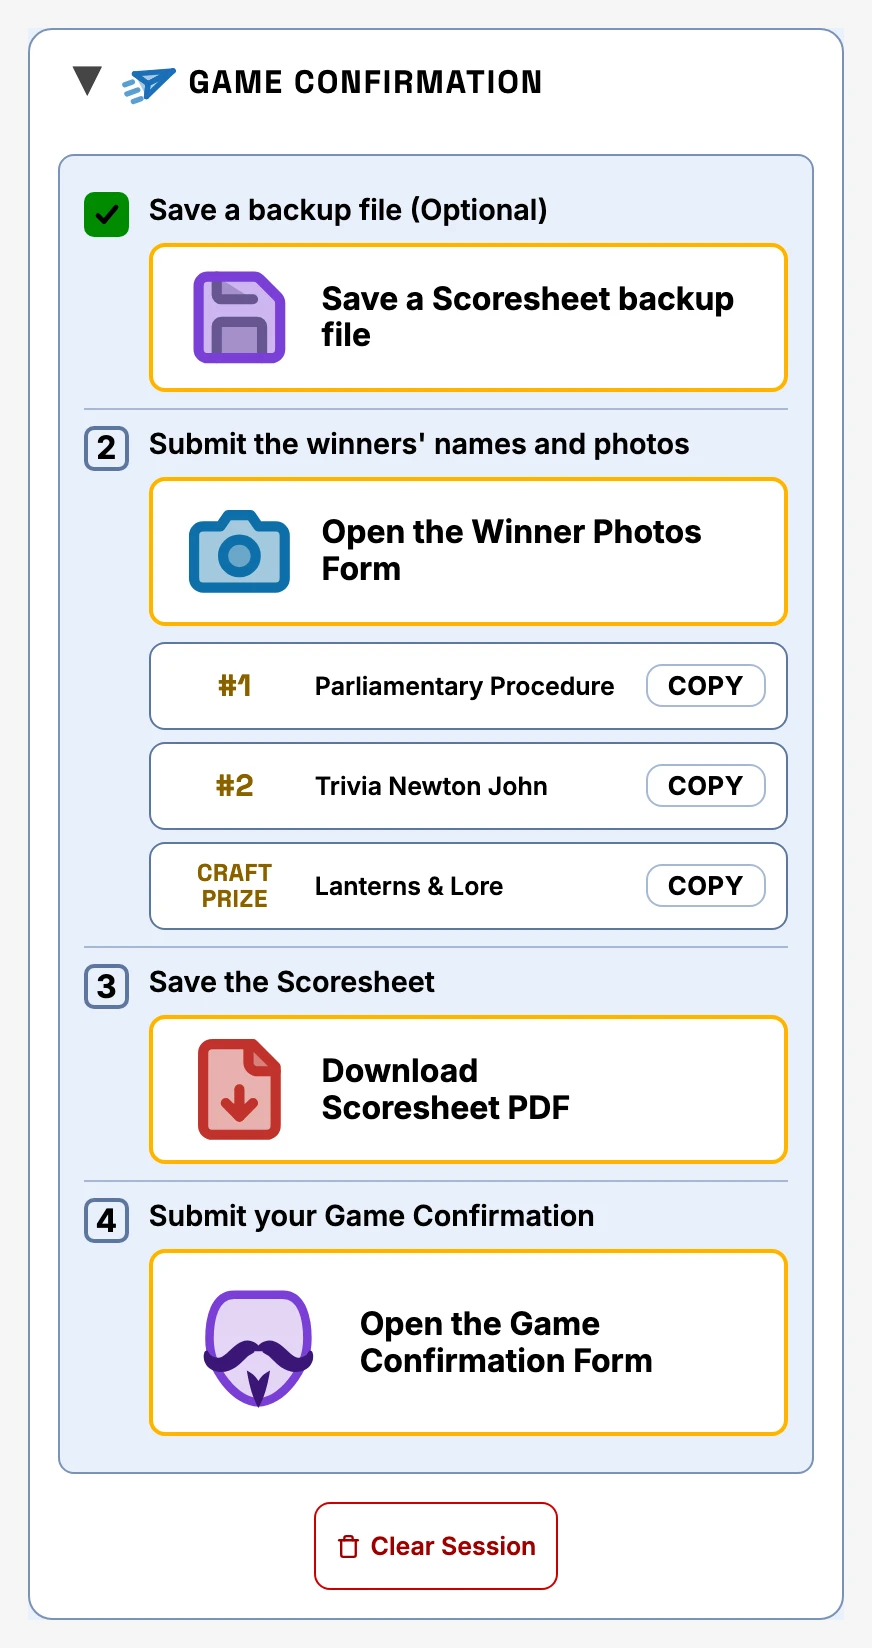
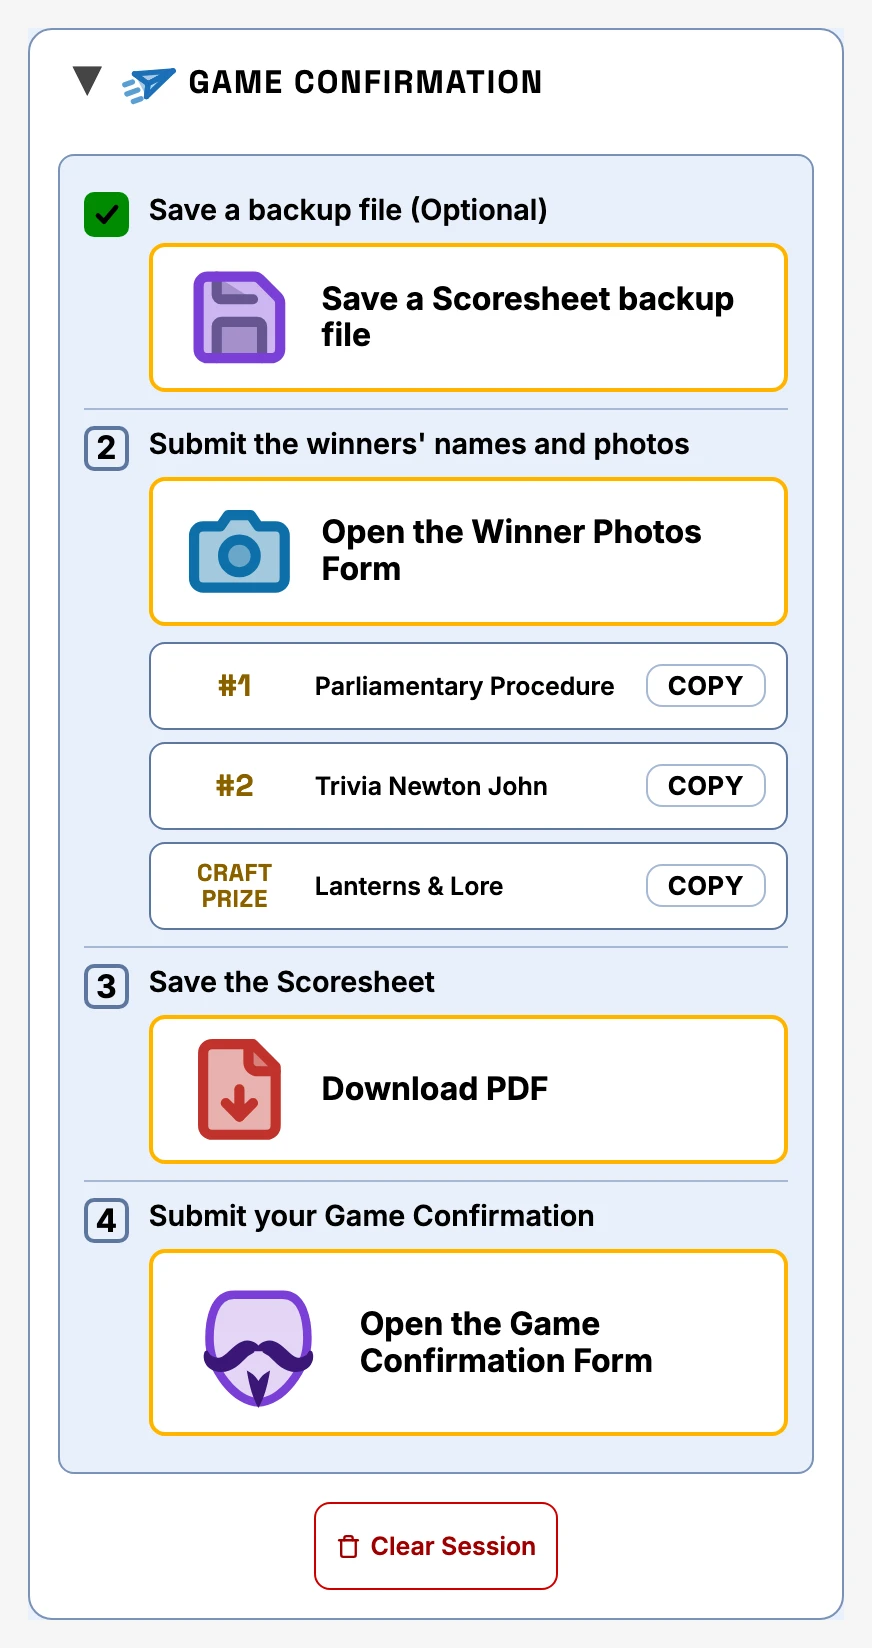
v22.73 Step 3 button renamed Download PDF, FAQ v1.74 screenshots

Changed region(s): [[0.3716, 0.6189, 0.6502, 0.6808]]

diff --git a/index.html b/index.html
@@ -109,7 +109,7 @@
     </div>
     </div>
     <div class="settings-panel-foot">
-    <div class="settings-meta"><span class="settings-version" id="versionLabel"></span><details class="settings-about"><summary>What's new</summary><div class="about-ver"><b>v22.72</b><ul><li>Game Confirmation: the #1/#2/Craft Prize labels moved slightly left, and the backup floppy shows its silver strokes under the purple outline.</li></ul></div><div class="about-ver"><b>v22.71</b><ul><li>Game Confirmation: the subtitle under each step is gone, so the list is shorter.</li></ul></div><div class="about-ver"><b>v22.70</b><ul><li>The "Copied" confirmation now fades back to the normal label smoothly instead of flashing, and step 4 says "Attach the PDF you just saved".</li></ul></div></details><span class="settings-disclaimer"><svg class="icon-ui" viewBox="0 0 24 24" aria-hidden="true" focusable="false"><path d="m21.73 18-8-14a2 2 0 0 0-3.48 0l-8 14A2 2 0 0 0 4 21h16a2 2 0 0 0 1.73-3"/><path d="M12 9v4"/><path d="M12 17h.01"/></svg> Built with Anthropic's Claude AI — double-check scores &amp; banter yourself.</span></div>
+    <div class="settings-meta"><span class="settings-version" id="versionLabel"></span><details class="settings-about"><summary>What's new</summary><div class="about-ver"><b>v22.73</b><ul><li>Game Confirmation: the step 3 button is now simply "Download PDF".</li></ul></div><div class="about-ver"><b>v22.72</b><ul><li>Game Confirmation: the #1/#2/Craft Prize labels moved slightly left, and the backup floppy shows its silver strokes under the purple outline.</li></ul></div><div class="about-ver"><b>v22.71</b><ul><li>Game Confirmation: the subtitle under each step is gone, so the list is shorter.</li></ul></div></details><span class="settings-disclaimer"><svg class="icon-ui" viewBox="0 0 24 24" aria-hidden="true" focusable="false"><path d="m21.73 18-8-14a2 2 0 0 0-3.48 0l-8 14A2 2 0 0 0 4 21h16a2 2 0 0 0 1.73-3"/><path d="M12 9v4"/><path d="M12 17h.01"/></svg> Built with Anthropic's Claude AI — double-check scores &amp; banter yourself.</span></div>
     </div>
   </div>
 </div>

diff --git a/js/app.js b/js/app.js
@@ -69,8 +69,8 @@ const FIELD_MAX = {
   timezone: 64,
   locale: 35,
 };
-const APP_VERSION = "v22.72"; // #Version Number — bump this manually when you release a new build
-const APP_VERSION_DATE = "Nov 22, 2026 4:43 AM"; // #Version Date — bump alongside APP_VERSION so folks can spot a stale build
+const APP_VERSION = "v22.73"; // #Version Number — bump this manually when you release a new build
+const APP_VERSION_DATE = "Nov 22, 2026 4:48 AM"; // #Version Date — bump alongside APP_VERSION so folks can spot a stale build
 // version.json (repo root) mirrors these two — see checkForUpdate() below for why, and bump it
 // in the same commit as these two or the update-available check starts lying: it'd either miss
 // a real new release (version.json still saying the old version) or nag a host running the
@@ -2790,7 +2790,7 @@ function finishActionHtml(k) {
   const rect = (icon, label, sub) =>
     `${icon}<span class="finish-rect-text"><span class="finish-rect-label">${label}</span>${sub ? `<span class="finish-rect-sub">${sub}</span>` : ""}</span>`;
   if (k === "backup") return `<button class="btn finish-rect" onclick="saveToFile()" title="Save a Scoresheet backup file" aria-label="Save a Scoresheet backup file">${rect(ICON_SAVE, "Save a Scoresheet backup file")}</button>`;
-  if (k === "pdf") return `<button class="btn finish-rect" onclick="exportPDF()" title="Download Scoresheet PDF" aria-label="Download Scoresheet PDF">${rect(ICON_PDF, '<span class="lb-line">Download</span> <span class="lb-line">Scoresheet PDF</span>')}</button>`;
+  if (k === "pdf") return `<button class="btn finish-rect" onclick="exportPDF()" title="Download PDF" aria-label="Download PDF">${rect(ICON_PDF, "Download PDF")}</button>`;
   if (k === "confirm")
     return `<a class="btn finish-rect jd-upload-btn" href="${FINISH_CONFIRM_URL}" target="_blank" rel="noopener noreferrer" title="Game Confirmation" aria-label="Game Confirmation" onclick="markFinish('confirm')">${rect(ICON_FAWKES, "Open the Game Confirmation Form")}</a>`;
   if (k === "photos") {

diff --git a/faq/index.html b/faq/index.html
@@ -1351,7 +1351,7 @@
             <ol>
               <li><strong>Save a backup file (Optional).</strong> Saves the game so you can reopen it later, just in case. Skip it if you don't need one.</li>
               <li><strong>Submit the winners' names and photos.</strong> Tap <strong>Open the Winner Photos Form</strong> to open the form in a new tab, then tap <strong>Copy</strong> under it for each team name you need to paste in.</li>
-              <li><strong>Save the Scoresheet.</strong> Tap <strong>Download Scoresheet PDF</strong> to save the finished scoresheet to your device.</li>
+              <li><strong>Save the Scoresheet.</strong> Tap <strong>Download PDF</strong> to save the finished scoresheet to your device.</li>
               <li><strong>Submit your Game Confirmation.</strong> Tap <strong>Open the Game Confirmation Form</strong> to open the form in a new tab, where you submit the PDF you saved.</li>
             </ol>
             <p>Each step ticks off as you go, but nothing is forced, so you can skip or redo any of them. When you're finished, tap <strong>Clear Session</strong> and answer the prompt.</p>
@@ -1365,7 +1365,7 @@
           <div class="faq-a">
             <ul>
               <li>
-                <strong><svg class="icon-ui icon-tinted icon-pdf" viewBox="0 0 24 24" aria-hidden="true" focusable="false" data-emoji="📕"><use href="#ic-pdf"></use></svg> Download Scoresheet PDF</strong> — a printable, easy-to-read scoresheet.
+                <strong><svg class="icon-ui icon-tinted icon-pdf" viewBox="0 0 24 24" aria-hidden="true" focusable="false" data-emoji="📕"><use href="#ic-pdf"></use></svg> Download PDF</strong> — a printable, easy-to-read scoresheet.
               </li>
               <li>
                 <strong><svg class="icon-ui icon-tinted icon-camera" viewBox="0 0 24 24" aria-hidden="true" focusable="false" data-emoji="📷"><use href="#ic-camera"></use></svg> Open the Winner Photos Form</strong> — opens a form in a new tab to submit the winning teams' names and photos.

diff --git a/tests/v22-54.test.js b/tests/v22-54.test.js
@@ -24,6 +24,6 @@ describe("v22.54 Game Submission section", () => {
     const steps = [...body.querySelectorAll("ol.finish-list > li")];
     assert.equal(steps.length, 4);
     const act = (li) => li.querySelector(".finish-rect").textContent.trim();
-    assert.deepEqual(steps.map(act), ["Save a Scoresheet backup file", "Open the Winner Photos Form", "Download Scoresheet PDF", "Open the Game Confirmation Form"]);
+    assert.deepEqual(steps.map(act), ["Save a Scoresheet backup file", "Open the Winner Photos Form", "Download PDF", "Open the Game Confirmation Form"]);
   });
 });

diff --git a/faq/js/faq.js b/faq/js/faq.js
@@ -4,7 +4,7 @@
 // #versionLabel element. Here the same string feeds two spots — the page footer and the
 // Settings panel's settings-meta row — so bumping a release only means editing these two
 // constants instead of hunting down every place the version text is written out by hand.
-const FAQ_VERSION = "v1.73";
+const FAQ_VERSION = "v1.74";
 const FAQ_VERSION_DATE = "22 Nov 2026";
 
 // Same Lucide sun/moon geometry as the main app's THEME_ICON_SUN/MOON (js/app.js), tagged

diff --git a/faq/screenshots/README.md b/faq/screenshots/README.md
@@ -51,7 +51,7 @@ comparison it exists to make.
 | `craft-prize.webp` | The Craft Prize Drawing section open pre-draw, showing the Exclude Top / Drumroll-seconds steppers and the square **Start Drumroll** button (v19.60). | Craft Prize Drawing |
 | `craft-prize-drumroll.webp` | The Craft Prize drumroll actively playing, right after clicking Start Drumroll — the spinning name and countdown bar. | Craft Prize Drawing |
 | `craft-prize-winner.webp` | The finished draw — winning team announced, with the **Clear** button next to the result and the Winner Announcement Script below. | Craft Prize Drawing |
-| `export-bar.webp` | The Game Confirmation section as one numbered list — Save a backup file (Optional), Submit the winners' names and photos (📷 form button with the Copy buttons for the top teams and craft prize winner under it), Save the Scoresheet (Download Scoresheet PDF), Submit your Game Confirmation (🎭 form button), then Clear Session. Each step button is a wide rectangle with a gold outline and the picto on the left (v22.72). Dark + light. | Exporting |
+| `export-bar.webp` | The Game Confirmation section as one numbered list — Save a backup file (Optional), Submit the winners' names and photos (📷 form button with the Copy buttons for the top teams and craft prize winner under it), Save the Scoresheet (Download PDF), Submit your Game Confirmation (🎭 form button), then Clear Session. Each step button is a wide rectangle with a gold outline and the picto on the left (v22.73). Dark + light. | Exporting |
 | `pdf-export.webp` | The downloaded PDF scoresheet — same header plus full standings. | Exporting |
 | `jd-upload-form.webp` | The Game Confirmation page, opened in its own browser tab. | Exporting |
 | `sound-test-buttons.webp` | The Craft Prize Drawing's Test Sounds bar — the square Roll / Fade out / Crash / Horn buttons (Advanced Settings → Manual Drumroll Control **and** Sound Test Buttons both on). | Tips & Tricks |

diff --git a/CHANGELOG.md b/CHANGELOG.md
@@ -14,6 +14,11 @@ Theme Night is a major change, so its first release (commit subject "v19.78") is
 v20.0 here and in the app, and the follow-ups after it are v20.1 through v20.6 (commit subjects
 v19.79 through v19.84; git history isn't rewritten).
 
+## v22.73 - 2026-11-22
+
+- **Step 3 button renamed "Download PDF"** (one line).
+- FAQ v1.74: button name updated in the wrap-up steps, regenerated `export-bar` screenshots.
+
 ## v22.72 - 2026-11-22
 
 - **Copy-name labels** (#1/#2/Craft Prize) in step 2 moved a bit to the left (narrower label column, so team names also fit on one line more often).

diff --git a/faq/CHANGELOG.md b/faq/CHANGELOG.md
@@ -2,6 +2,12 @@
 
 All notable changes to the Scorekeeper FAQ site are documented here.
 
+## [1.74] - 22 Nov 2026
+
+### Changed
+
+- **Game Confirmation:** step 3's button is called "Download PDF" in the wrap-up steps and the PDF/photos/confirmation comparison, and the `export-bar` screenshots (dark + light) are regenerated for app v22.73.
+
 ## [1.73] - 22 Nov 2026
 
 ### Changed
